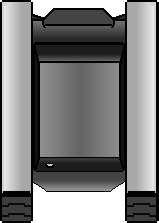
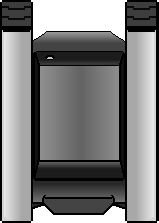
Got rotating tank and gun working.  Need to get movement working properly

diff --git a/src/foo.py b/src/foo.py
@@ -71,12 +71,21 @@ class Tank(pygame.sprite.Sprite):
 
     def __init__(self, body, gun):
         super(Tank, self).__init__()
+
+        # start tank here, probably should be an argument
+        self.pos = pygame.math.Vector2(100, 100)
+
+        # keep original images because rotation is lossey
         self.body = body
         self.body_orig = body.copy()
         self.gun = gun
         self.gun_orig = gun.copy()
-        self.gun_offset = pygame.math.Vector2(0, 0)
-        self.pos = pygame.math.Vector2(100, 100)
+
+        # pivot relative to top left of tank body image body.  The 0.75 should
+        # be a parameter of the tank definition.
+        self.gpivot = pygame.math.Vector2(gun.get_width() / 2, gun.get_height() * 0.75)
+
+        # start facing north
         self.body_angle = 0
         self.gun_angle = 0
 
@@ -94,11 +103,29 @@ class Tank(pygame.sprite.Sprite):
             self.body = pygame.transform.rotate(self.body_orig, self.body_angle)
         if pressed_keys[K_t]:
             self.gun_angle += 1
-            self.gun = pygame.transform.rotate(self.gun_orig, self.gun_angle)
 
     def draw(self, sur):
         sur.blit(self.body, self.pos - self.body.get_rect().center)
-        sur.blit(self.gun, self.gun_offset + self.pos - self.gun.get_rect().center)
+
+        # offset from pivot to center
+        image_rect = self.gun_orig.get_rect(topleft=self.pos - self.gpivot)
+        offset_center_to_pivot = self.pos - image_rect.center
+
+        # roatated offset from pivot to center
+        rotated_offset = offset_center_to_pivot.rotate(
+            -(self.gun_angle + self.body_angle)
+        )
+
+        rotated_image_center = self.pos - rotated_offset
+
+        # get a rotated image
+        rotated_image = pygame.transform.rotate(
+            self.gun_orig, self.gun_angle + self.body_angle
+        )
+        rotated_image_rect = rotated_image.get_rect(center=rotated_image_center)
+
+        # rotate and blit the image
+        sur.blit(rotated_image, rotated_image_rect.topleft)
 
 
 pygame.init()
@@ -143,6 +170,7 @@ while running:
     tank.update(pygame.key.get_pressed())
 
     tank.draw(fake_screen)
+    # pygame.draw.rect(fake_screen, (0, 0, 255), (0, 0, 200, 200))
 
     # # for e in all_sprites:
     # # fake_screen.blit(tank.image, tank.location)
